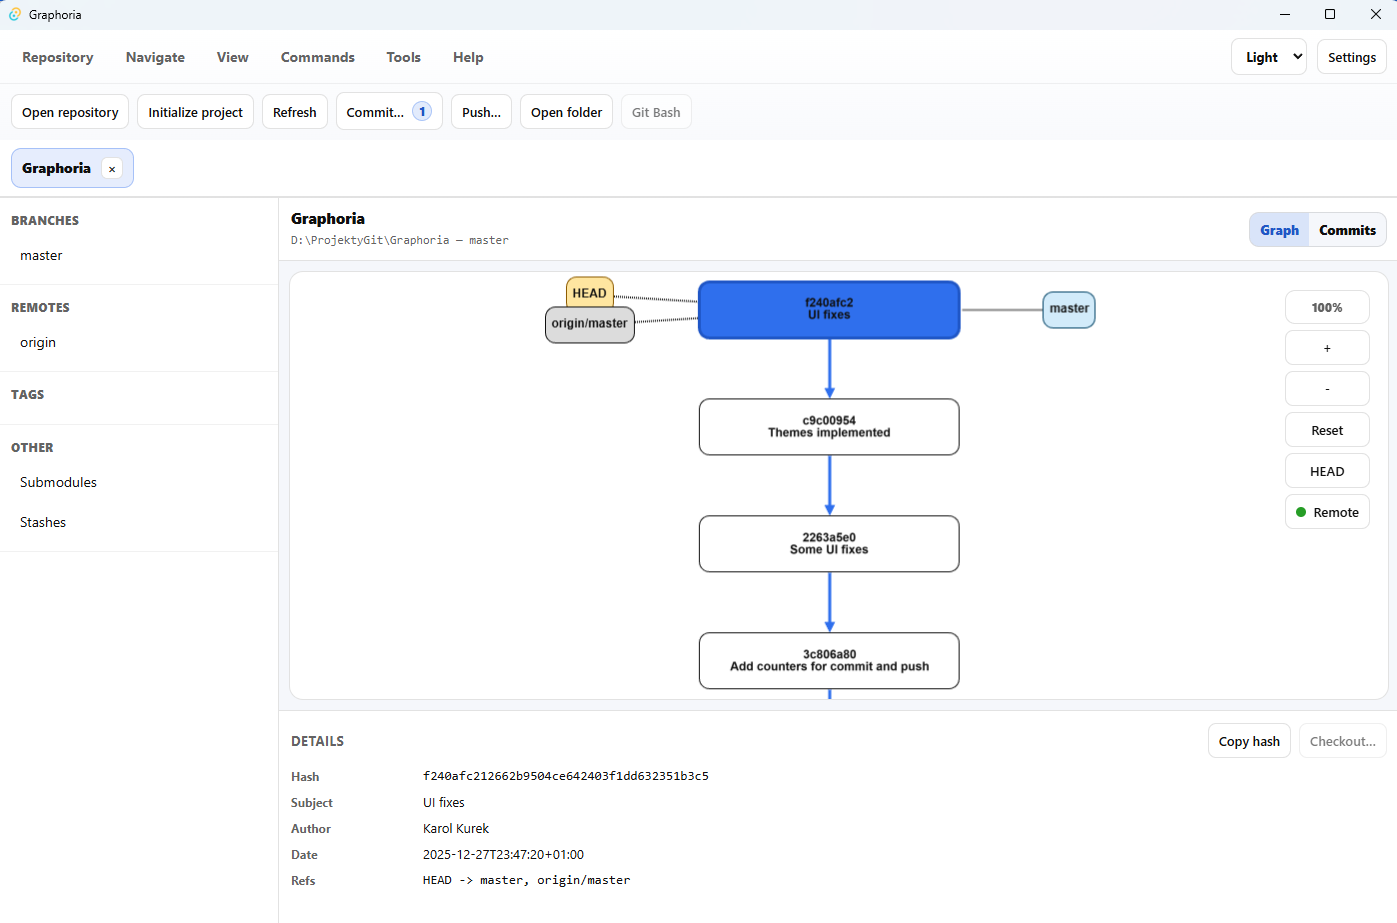
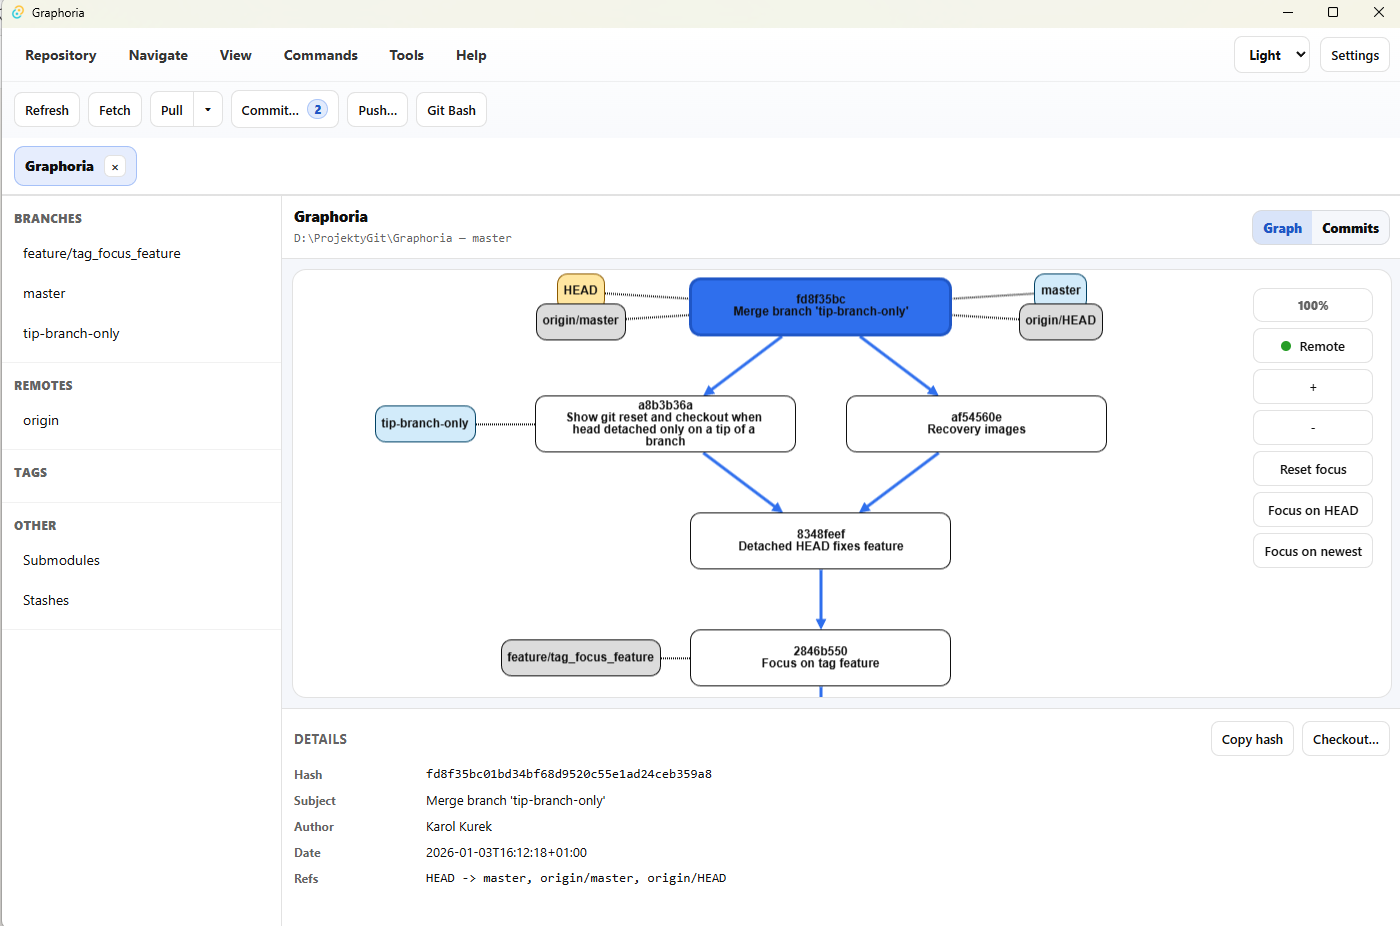
Add three focus buttons

diff --git a/src/App.tsx b/src/App.tsx
@@ -935,6 +935,26 @@ function App() {
     focusOnHash(headHash, 1, 0.22);
   }
 
+  function focusOnNewest() {
+    if (!activeRepoPath) return;
+    if (commits.length === 0) return;
+
+    let newestHash = "";
+    let newestTs = -Infinity;
+
+    for (const c of commits) {
+      const ts = Date.parse(c.date);
+      if (!Number.isFinite(ts)) continue;
+      if (ts > newestTs) {
+        newestTs = ts;
+        newestHash = c.hash;
+      }
+    }
+
+    if (!newestHash) return;
+    focusOnHash(newestHash, 1, 0.22);
+  }
+
   function zoomBy(factor: number) {
     const cy = cyRef.current;
     if (!cy) return;
@@ -2336,18 +2356,6 @@ function App() {
                   ) : null}
                   <div className="zoomControls">
                     <div className="zoomIndicator">{zoomPct}%</div>
-                    <button type="button" onClick={() => zoomBy(1.2)} disabled={!activeRepoPath}>
-                      +
-                    </button>
-                    <button type="button" onClick={() => zoomBy(1 / 1.2)} disabled={!activeRepoPath}>
-                      -
-                    </button>
-                    <button type="button" onClick={() => focusOnHash(selectedHash || headHash, 1, 0.22)} disabled={!activeRepoPath}>
-                      Reset
-                    </button>
-                    <button type="button" onClick={focusOnHead} disabled={!activeRepoPath || !headHash}>
-                      HEAD
-                    </button>
                     <button
                       type="button"
                       onClick={() => void openRemoteDialog()}
@@ -2360,6 +2368,21 @@ function App() {
                         style={{ backgroundColor: remoteUrl ? "rgba(0, 140, 0, 0.85)" : "rgba(176, 0, 32, 0.85)" }}
                       />
                       Remote
+                    </button>
+                    <button type="button" onClick={() => zoomBy(1.2)} disabled={!activeRepoPath}>
+                      +
+                    </button>
+                    <button type="button" onClick={() => zoomBy(1 / 1.2)} disabled={!activeRepoPath}>
+                      -
+                    </button>
+                    <button type="button" onClick={() => focusOnHash(selectedHash || headHash, 1, 0.22)} disabled={!activeRepoPath}>
+                      Reset focus
+                    </button>
+                    <button type="button" onClick={focusOnHead} disabled={!activeRepoPath || !headHash}>
+                      Focus on HEAD
+                    </button>
+                    <button type="button" onClick={focusOnNewest} disabled={!activeRepoPath || commits.length === 0}>
+                      Focus on newest
                     </button>
                   </div>
                 </div>
